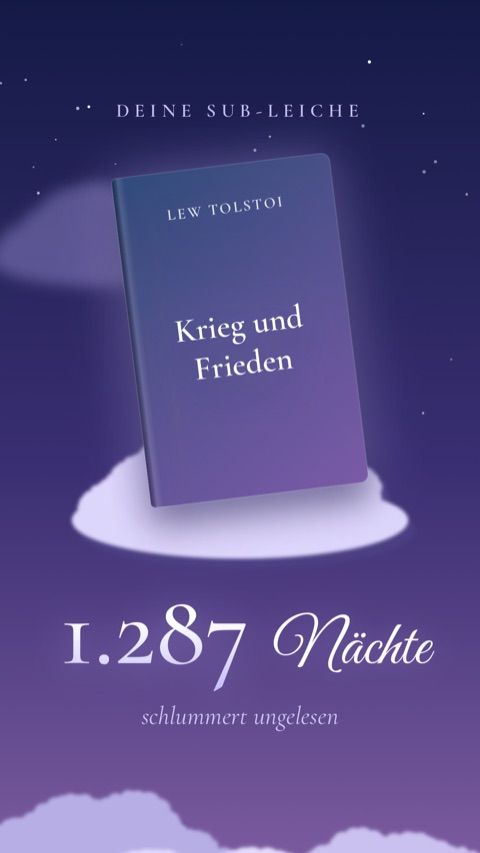
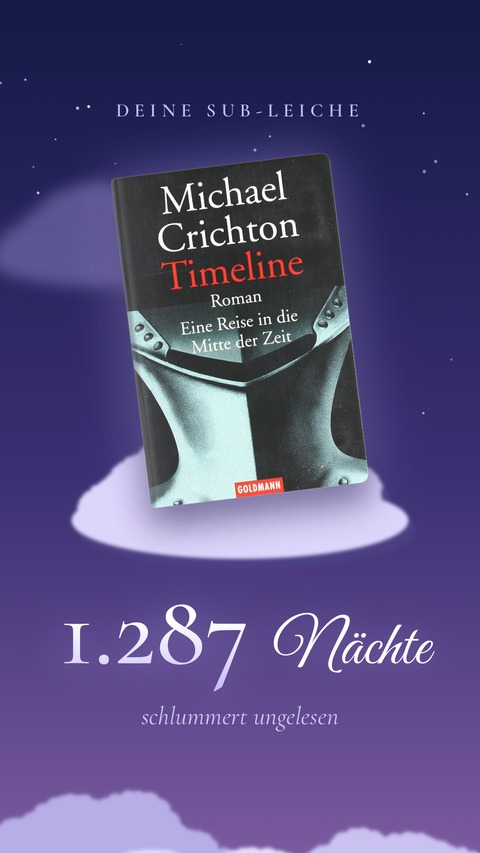
Film Verträumt: vier Standbilder mit Covern ersetzen (#7)
- de/en-02, 08, 09, 10 (jpg+webp) neu gerendert mit Screenshot-Bibliothek und Covern
- Alt-Text Bild 08 an neue Seitenzahlen angepasst

Changed region(s): [[0.2188, 0.1829, 0.7812, 0.6096], [0.8125, 0.7315, 0.9062, 0.7925], [0.7188, 0.7315, 0.7812, 0.762]]

diff --git a/en/index.html b/en/index.html
@@ -1054,7 +1054,7 @@
         <li><picture><source srcset="../assets/film-dreamy/en-05.webp" type="image/webp"><img src="../assets/film-dreamy/en-05.jpg" alt="Your reading calendar, month by month" loading="lazy" width="480" height="853"></picture></li>
         <li><picture><source srcset="../assets/film-dreamy/en-06.webp" type="image/webp"><img src="../assets/film-dreamy/en-06.jpg" alt="4.3 out of five stars" loading="lazy" width="480" height="853"></picture></li>
         <li><picture><source srcset="../assets/film-dreamy/en-07.webp" type="image/webp"><img src="../assets/film-dreamy/en-07.jpg" alt="Your genre of the year on the moon" loading="lazy" width="480" height="853"></picture></li>
-        <li><picture><source srcset="../assets/film-dreamy/en-08.webp" type="image/webp"><img src="../assets/film-dreamy/en-08.jpg" alt="Your chunkiest read with 1,022 pages" loading="lazy" width="480" height="853"></picture></li>
+        <li><picture><source srcset="../assets/film-dreamy/en-08.webp" type="image/webp"><img src="../assets/film-dreamy/en-08.jpg" alt="Your chunkiest read with 560 pages" loading="lazy" width="480" height="853"></picture></li>
         <li><picture><source srcset="../assets/film-dreamy/en-09.webp" type="image/webp"><img src="../assets/film-dreamy/en-09.jpg" alt="Your oldest unread: 1,287 nights" loading="lazy" width="480" height="853"></picture></li>
         <li><picture><source srcset="../assets/film-dreamy/en-10.webp" type="image/webp"><img src="../assets/film-dreamy/en-10.jpg" alt="Your books of the year: the sweetest dreams" loading="lazy" width="480" height="853"></picture></li>
         <li><picture><source srcset="../assets/film-dreamy/en-11.webp" type="image/webp"><img src="../assets/film-dreamy/en-11.jpg" alt="Closing image “Keep dreaming” with a full moon" loading="lazy" width="480" height="853"></picture></li>

diff --git a/index.html b/index.html
@@ -1053,7 +1053,7 @@
         <li><picture><source srcset="assets/film-dreamy/de-05.webp" type="image/webp"><img src="assets/film-dreamy/de-05.jpg" alt="Dein Lesekalender Monat für Monat" loading="lazy" width="480" height="853"></picture></li>
         <li><picture><source srcset="assets/film-dreamy/de-06.webp" type="image/webp"><img src="assets/film-dreamy/de-06.jpg" alt="4,3 von fünf Sternen" loading="lazy" width="480" height="853"></picture></li>
         <li><picture><source srcset="assets/film-dreamy/de-07.webp" type="image/webp"><img src="assets/film-dreamy/de-07.jpg" alt="Dein Genre des Jahres auf dem Mond" loading="lazy" width="480" height="853"></picture></li>
-        <li><picture><source srcset="assets/film-dreamy/de-08.webp" type="image/webp"><img src="assets/film-dreamy/de-08.jpg" alt="Dein dickster Brocken mit 1.022 Seiten" loading="lazy" width="480" height="853"></picture></li>
+        <li><picture><source srcset="assets/film-dreamy/de-08.webp" type="image/webp"><img src="assets/film-dreamy/de-08.jpg" alt="Dein dickster Brocken mit 1.371 Seiten" loading="lazy" width="480" height="853"></picture></li>
         <li><picture><source srcset="assets/film-dreamy/de-09.webp" type="image/webp"><img src="assets/film-dreamy/de-09.jpg" alt="Deine SuB-Leiche: 1.287 Nächte ungelesen" loading="lazy" width="480" height="853"></picture></li>
         <li><picture><source srcset="assets/film-dreamy/de-10.webp" type="image/webp"><img src="assets/film-dreamy/de-10.jpg" alt="Deine Bücher des Jahres: die schönsten Träume" loading="lazy" width="480" height="853"></picture></li>
         <li><picture><source srcset="assets/film-dreamy/de-11.webp" type="image/webp"><img src="assets/film-dreamy/de-11.jpg" alt="Abschlussbild „Träum weiter“ mit Vollmond" loading="lazy" width="480" height="853"></picture></li>
